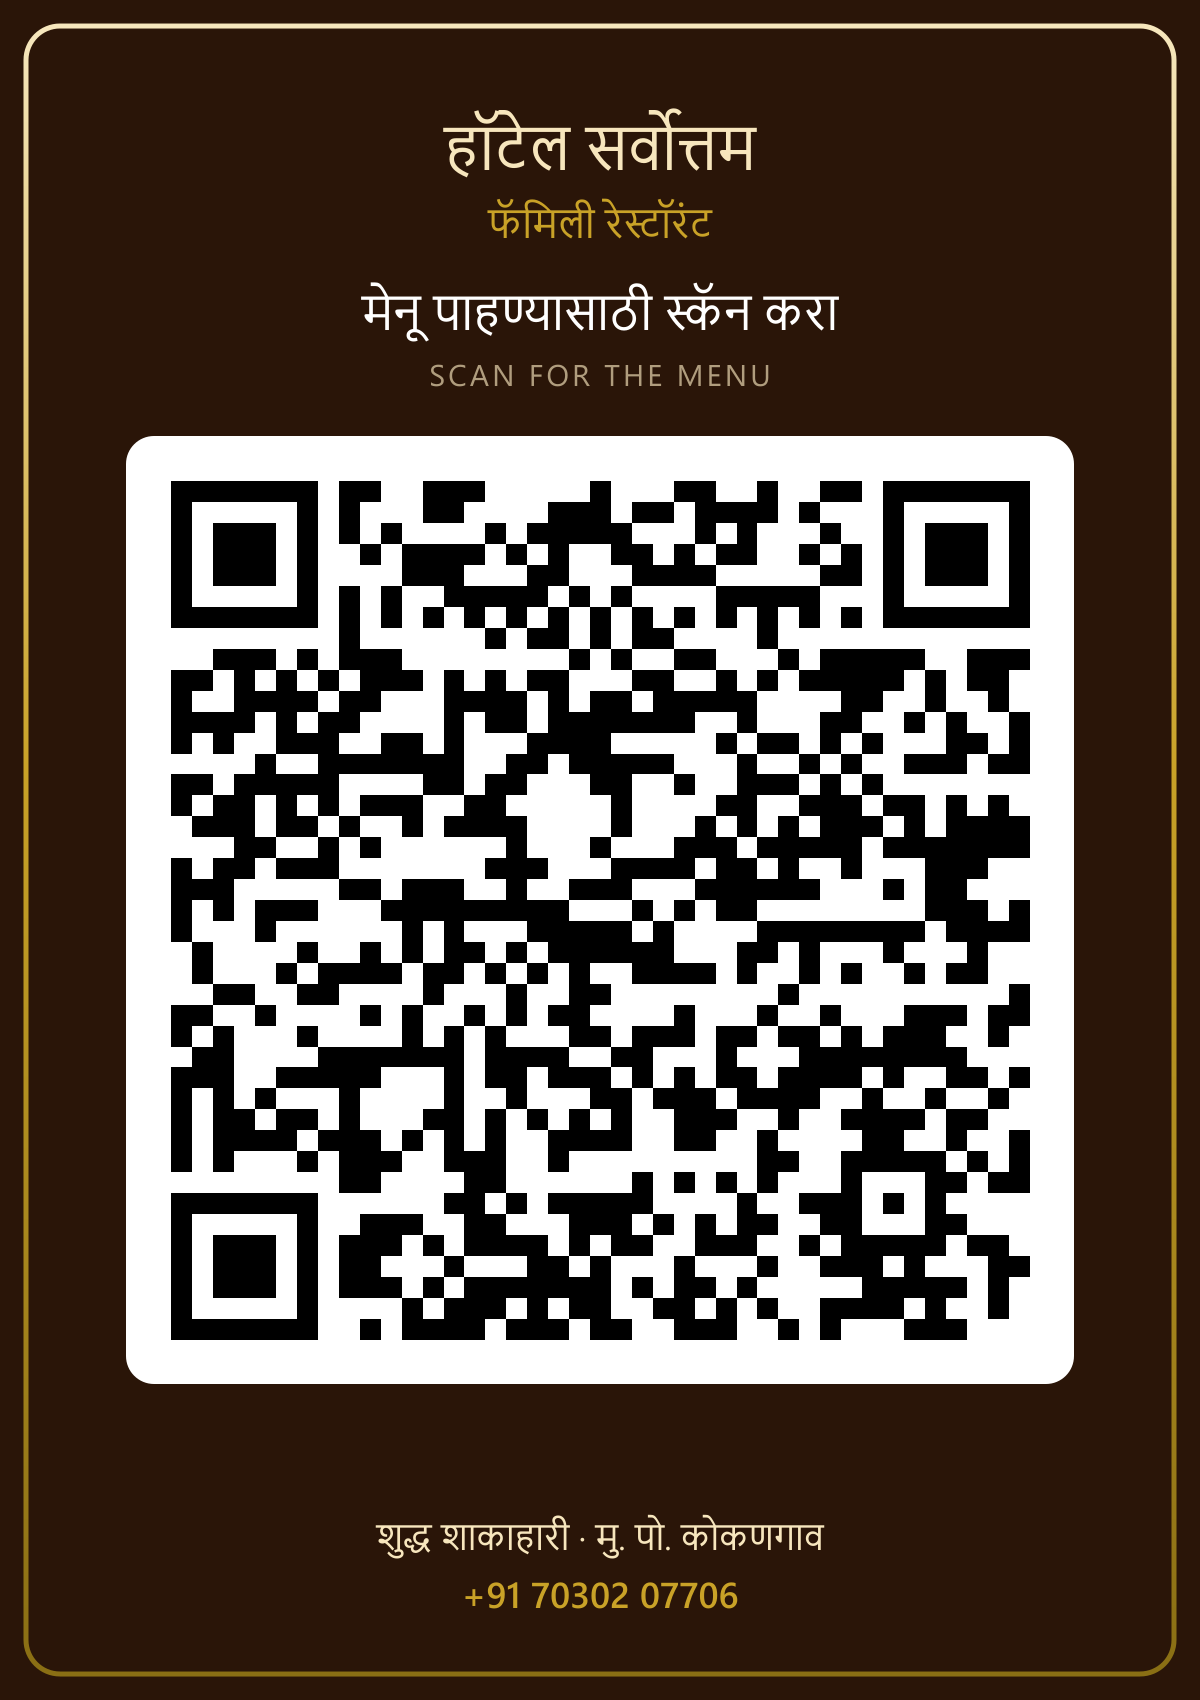
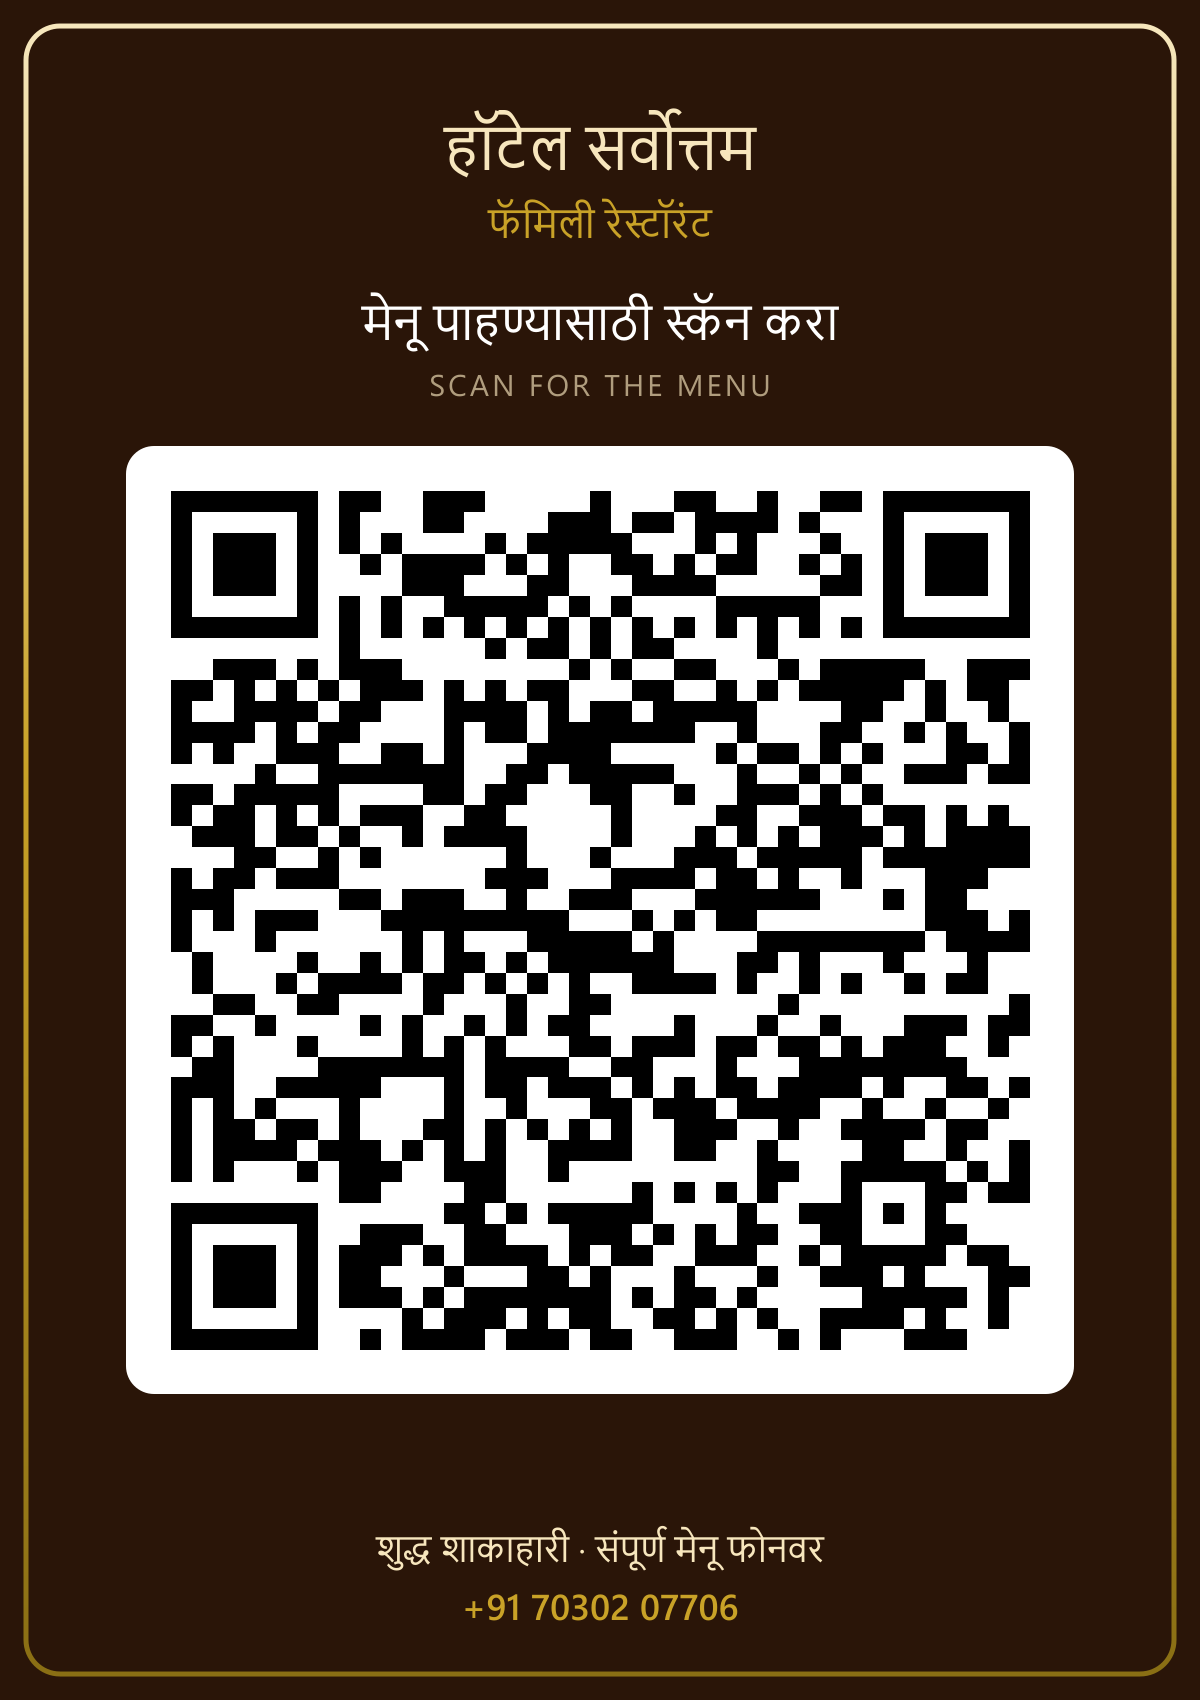
Invite guests to review the hotel on Google
The listing's place id was resolved from its Maps feature id, so the QR
opens Google's own rate-and-review sheet rather than the listing page.

- review QR as a print-ready table card, a plain PNG and a vector, built
  by the same script as the menu QR
- an invitation at the foot of the page: the code for a phone at the
  table, the same link for anyone reading on a computer
- vite preview now serves at the published base, so the built site can be
  checked the way it will be deployed

Changed region(s): [[0.0925, 0.1559, 0.8942, 0.8418], [0.3083, 0.8729, 0.6783, 0.9665]]

diff --git a/src/styles/components/_review.scss b/src/styles/components/_review.scss
@@ -1,0 +1,108 @@
+@use '../abstracts/variables' as v;
+@use '../abstracts/mixins' as m;
+
+/* ---------------------------------------------------------------------------
+   The Google review invitation that closes the page: words on the left, the
+   QR code on the right. Screen only.
+   --------------------------------------------------------------------------- */
+.review {
+  width: min(1120px, 92vw);
+  margin: 38px auto 0;
+  padding: clamp(22px, 3vw, 34px);
+  display: grid;
+  grid-template-columns: minmax(0, 1fr) auto;
+  align-items: center;
+  gap: clamp(22px, 4vw, 48px);
+  border: 1px solid rgba(234, 217, 164, 0.22);
+  border-radius: 18px;
+  background: rgba(58, 34, 20, 0.5);
+  color: v.$cream;
+
+  @include m.phone-down {
+    grid-template-columns: minmax(0, 1fr);
+    justify-items: center;
+    text-align: center;
+  }
+}
+
+.review__eyebrow {
+  font-family: v.$font-ui;
+  font-size: 10.5px;
+  font-weight: 600;
+  letter-spacing: 0.2em;
+  text-transform: uppercase;
+  color: rgba(247, 230, 189, 0.55);
+}
+
+.review__title {
+  margin-top: 8px;
+  font-family: v.$font-mr;
+  font-size: clamp(1.4rem, 3vw, 1.9rem);
+  font-weight: 400;
+  line-height: 1.35;
+  color: v.$gold-light;
+}
+
+.review__body {
+  margin-top: 12px;
+  max-width: 48ch;
+  font-family: v.$font-mr;
+  font-size: 1rem;
+  line-height: 1.7;
+  color: rgba(247, 230, 189, 0.8);
+}
+
+.review__rating {
+  margin-top: 14px;
+  font-family: v.$font-mr;
+  font-size: 0.95rem;
+  color: rgba(247, 230, 189, 0.62);
+
+  strong {
+    font-family: v.$font-ui;
+    font-weight: 600;
+    color: v.$gold-light;
+  }
+}
+
+.review__link {
+  margin-top: 20px;
+  display: inline-flex;
+  align-items: baseline;
+  gap: 10px;
+  font-family: v.$font-mr;
+  font-size: 1.05rem;
+  color: v.$gold-light;
+  text-decoration: none;
+  border-bottom: 1px solid rgba(231, 207, 142, 0.45);
+  transition:
+    color v.$duration v.$ease,
+    border-color v.$duration v.$ease;
+
+  &:hover,
+  &:focus-visible {
+    color: v.$gold-pale;
+    border-bottom-color: v.$gold-pale;
+  }
+}
+
+.review__qr {
+  display: grid;
+  justify-items: center;
+  gap: 10px;
+  padding: 14px 14px 12px;
+  border-radius: 14px;
+  background: #ffffff;
+
+  img {
+    display: block;
+    width: clamp(148px, 18vw, 196px);
+    height: auto;
+  }
+
+  figcaption {
+    font-family: v.$font-mr;
+    font-size: 0.85rem;
+    color: v.$ink-soft;
+  }
+}

diff --git a/src/components/site/ReviewInvite.tsx b/src/components/site/ReviewInvite.tsx
@@ -1,0 +1,51 @@
+import { QR } from '../../constants/assets';
+import { CONTACT } from '../../data/contact';
+import { RESTAURANT } from '../../data/restaurant';
+
+/**
+ * Asks the guest to rate the hotel on Google: the QR code for a phone at the
+ * table, the same destination as a link for anyone reading on a computer.
+ */
+export function ReviewInvite(): React.JSX.Element {
+  const { rating, reviewUrl } = CONTACT;
+
+  return (
+    <section className="review no-print" aria-labelledby="review-title">
+      <div className="review__text">
+        <p className="review__eyebrow" lang="en">
+          {rating.source.en} Review
+        </p>
+
+        <h2 className="review__title" id="review-title" lang="mr">
+          जेवण आवडलं ? आपला अभिप्राय सांगा
+        </h2>
+
+        <p className="review__body" lang="mr">
+          तुमच्या एका रिव्ह्यूमुळे नव्या पाहुण्यांना आमचं हॉटेल सापडतं. दोन ओळी लिहा, तारे द्या —
+          तेवढंच पुरेसं आहे.
+        </p>
+
+        <p className="review__rating" lang="mr">
+          {rating.source.mr}वर आमचं रेटिंग <strong>{rating.score}</strong> — {rating.reviews} रिव्ह्यू
+        </p>
+
+        <a className="review__link" href={reviewUrl} target="_blank" rel="noopener noreferrer">
+          <span lang="mr">{rating.source.mr}वर रिव्ह्यू द्या</span>
+          <span aria-hidden="true">→</span>
+        </a>
+      </div>
+
+      <figure className="review__qr">
+        <img
+          src={QR.review}
+          alt={`${rating.source.mr} रिव्ह्यू QR — ${RESTAURANT.prefix} ${RESTAURANT.name} ${RESTAURANT.kind}`}
+          width={200}
+          height={200}
+          loading="lazy"
+          decoding="async"
+        />
+        <figcaption lang="mr">फोनने स्कॅन करा</figcaption>
+      </figure>
+    </section>
+  );
+}

diff --git a/src/data/contact.ts b/src/data/contact.ts
@@ -8,8 +8,14 @@ export interface ContactDetails {
   readonly address: LocalizedText;
   readonly phone: { readonly display: string; readonly tel: string };
   readonly hours: LocalizedText;
-  readonly rating: { readonly score: number; readonly reviews: number; readonly source: string };
+  readonly rating: {
+    readonly score: number;
+    readonly reviews: number;
+    readonly source: LocalizedText;
+  };
   readonly mapsUrl: string;
+  /** Opens Google's own rate-and-review sheet for this listing. */
+  readonly reviewUrl: string;
 }
 
 export const CONTACT: ContactDetails = {
@@ -28,7 +34,8 @@ export const CONTACT: ContactDetails = {
   rating: {
     score: 4.6,
     reviews: 69,
-    source: 'Google',
+    source: { mr: 'गुगल', en: 'Google' },
   },
-  mapsUrl: 'https://share.google/ZNi7lPu3n58JuhiK4',
+  mapsUrl: 'https://www.google.com/maps/place/?q=place_id:ChIJJW9YAZ7_3DsRtVff3_mZMSE',
+  reviewUrl: 'https://search.google.com/local/writereview?placeid=ChIJJW9YAZ7_3DsRtVff3_mZMSE',
 };

diff --git a/vite.config.ts b/vite.config.ts
@@ -102,8 +102,11 @@ function seo(siteUrl: string): Plugin {
   };
 }
 
-export default defineConfig(({ command }) => {
-  const base = process.env.VITE_BASE ?? (command === 'build' ? `/${REPOSITORY_NAME}/` : '/');
+export default defineConfig(({ command, isPreview }) => {
+  /* `npm run preview` serves what was built, so it needs the built base too -
+     with `/` it would answer every asset request with index.html. */
+  const isProductionServe = command === 'build' || isPreview === true;
+  const base = process.env.VITE_BASE ?? (isProductionServe ? `/${REPOSITORY_NAME}/` : '/');
   const origin = (process.env.VITE_SITE_ORIGIN ?? DEFAULT_ORIGIN).replace(/\/+$/, '');
 
   return {

diff --git a/src/App.tsx b/src/App.tsx
@@ -1,6 +1,7 @@
 import { MenuDocument } from './components/layout/MenuDocument';
 import { SearchResults } from './components/menu/SearchResults';
 import { PhotoGallery } from './components/site/PhotoGallery';
+import { ReviewInvite } from './components/site/ReviewInvite';
 import { SiteFooter } from './components/site/SiteFooter';
 import { SiteHero } from './components/site/SiteHero';
 import { EmptyState } from './components/ui/EmptyState';
@@ -51,6 +52,7 @@ export default function App(): React.JSX.Element {
       </main>
 
       <PhotoGallery />
+      <ReviewInvite />
       <SiteFooter />
     </>
   );

diff --git a/src/constants/assets.ts b/src/constants/assets.ts
@@ -1,0 +1,12 @@
+/**
+ * Files served as-is from `public/`, so the image on the page and the file a
+ * printer is handed are the same file. `BASE_URL` keeps the paths right under
+ * the project's GitHub Pages sub-path.
+ */
+const publicUrl = (file: string): string => `${import.meta.env.BASE_URL}${file}`;
+
+/** QR codes: one opens this menu, one opens Google's review sheet. */
+export const QR = {
+  menu: publicUrl('qr/menu-qr.svg'),
+  review: publicUrl('qr/review-qr.svg'),
+} as const;

diff --git a/src/styles/main.scss b/src/styles/main.scss
@@ -13,6 +13,7 @@
 @use 'components/site';
 @use 'components/toolbar';
 @use 'components/results';
+@use 'components/review';
 @use 'components/card';
 @use 'components/header';
 @use 'components/section';

diff --git a/README.md b/README.md
@@ -69,14 +69,20 @@
 
 ---
 
-## मेनू QR — टेबलवर लावण्यासाठी
+## QR कोड — टेबलवर लावण्यासाठी
 
-फोनने स्कॅन करा, संपूर्ण मेनू उघडेल.
+| मेनू QR                                                                            | Google रिव्ह्यू QR                                                                        |
+| ---------------------------------------------------------------------------------- | ----------------------------------------------------------------------------------------- |
+| <img src="public/qr/menu-qr-card.png" alt="हॉटेल सर्वोत्तम मेनू QR" width="300" /> | <img src="public/qr/review-qr-card.png" alt="हॉटेल सर्वोत्तम रिव्ह्यू QR" width="300" /> |
+| स्कॅन केल्यावर संपूर्ण मेनू उघडतो                                                  | स्कॅन केल्यावर Google वर रिव्ह्यू देण्याचं पान उघडतं                                       |
 
-<img src="public/qr/menu-qr-card.png" alt="हॉटेल सर्वोत्तम मेनू QR" width="320" />
+छपाईसाठी मेनू QR: [कार्ड (PNG)](public/qr/menu-qr-card.png) · [फक्त QR (PNG)](public/qr/menu-qr.png) ·
+[फक्त QR (SVG)](public/qr/menu-qr.svg)
 
-छपाईसाठी: [कार्ड (PNG)](public/qr/menu-qr-card.png) · [फक्त QR (PNG)](public/qr/menu-qr.png) ·
-[फक्त QR (SVG — कितीही मोठा करता येईल)](public/qr/menu-qr.svg)
+छपाईसाठी रिव्ह्यू QR: [कार्ड (PNG)](public/qr/review-qr-card.png) ·
+[फक्त QR (PNG)](public/qr/review-qr.png) · [फक्त QR (SVG)](public/qr/review-qr.svg)
+
+कार्ड A5 आकारात छापल्यास QR सुमारे ८ सेमीचा येतो — एक हात लांबूनही स्कॅन होतो.
 
 ---
 
@@ -87,7 +93,8 @@
 | **पत्ता**   | मु. पो. कोकणगाव, ता. संगमनेर, जि. अहिल्यानगर — ४१३७१४                    |
 | **फोन**     | [+91 70302 07706](tel:+917030207706)                                     |
 | **वेळ**     | दररोज दुपारी १२:०० ते रात्री ११:३०                                        |
-| **नकाशा**   | [Google Maps वर पहा](https://share.google/ZNi7lPu3n58JuhiK4)             |
+| **नकाशा**   | [Google Maps वर पहा](https://www.google.com/maps/place/?q=place_id:ChIJJW9YAZ7_3DsRtVff3_mZMSE) |
+| **रिव्ह्यू** | [Google वर अभिप्राय द्या](https://search.google.com/local/writereview?placeid=ChIJJW9YAZ7_3DsRtVff3_mZMSE) |
 | **मेनू**    | [shubhamdsk.github.io/Hotel-Sarvottam](https://shubhamdsk.github.io/Hotel-Sarvottam/) |
 
 ### || मनःपूर्वक धन्यवाद — पुन्हा भेट द्या ! ||
